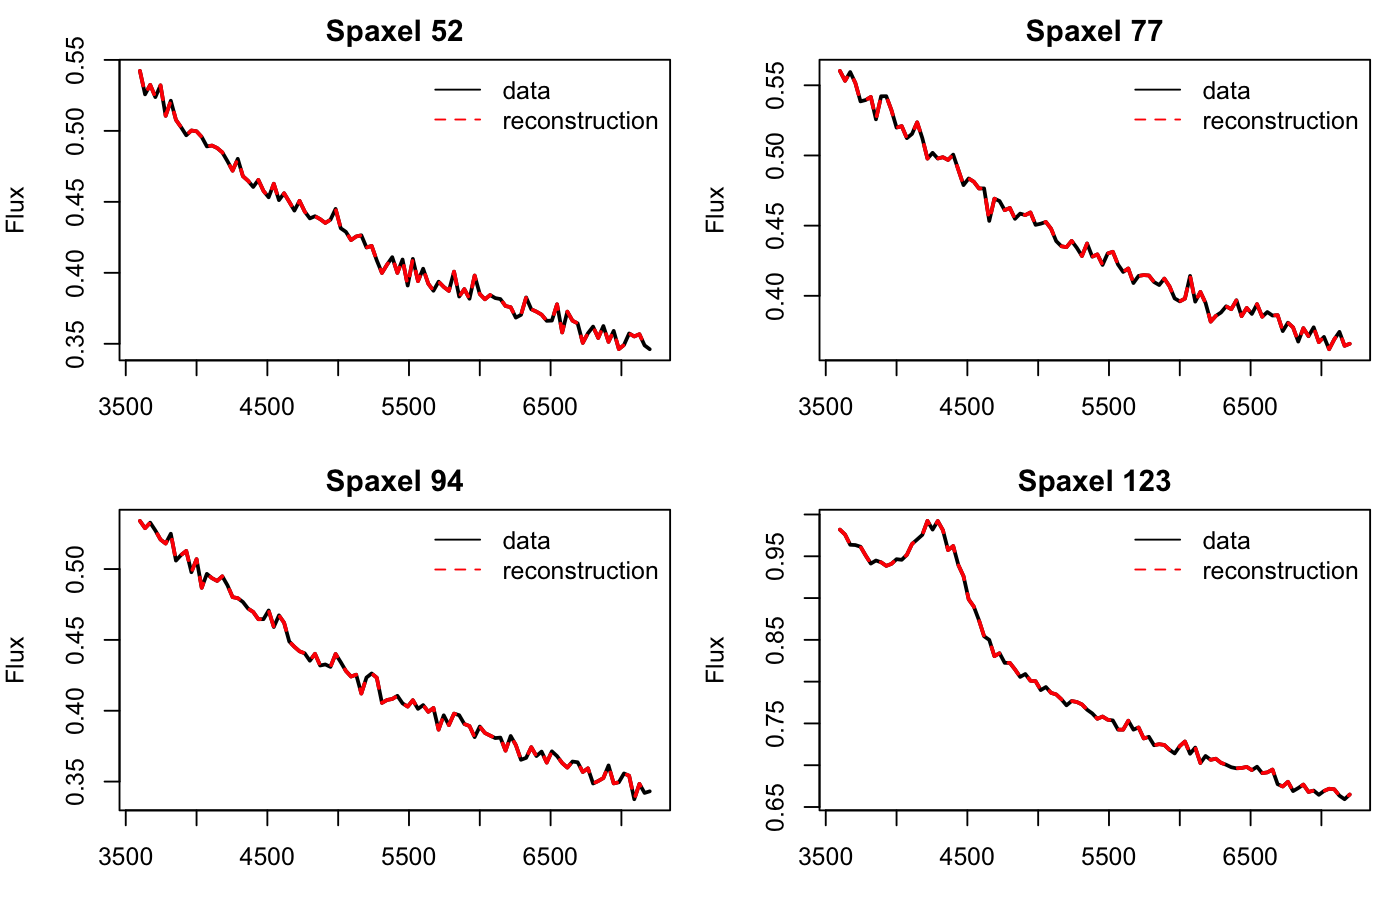
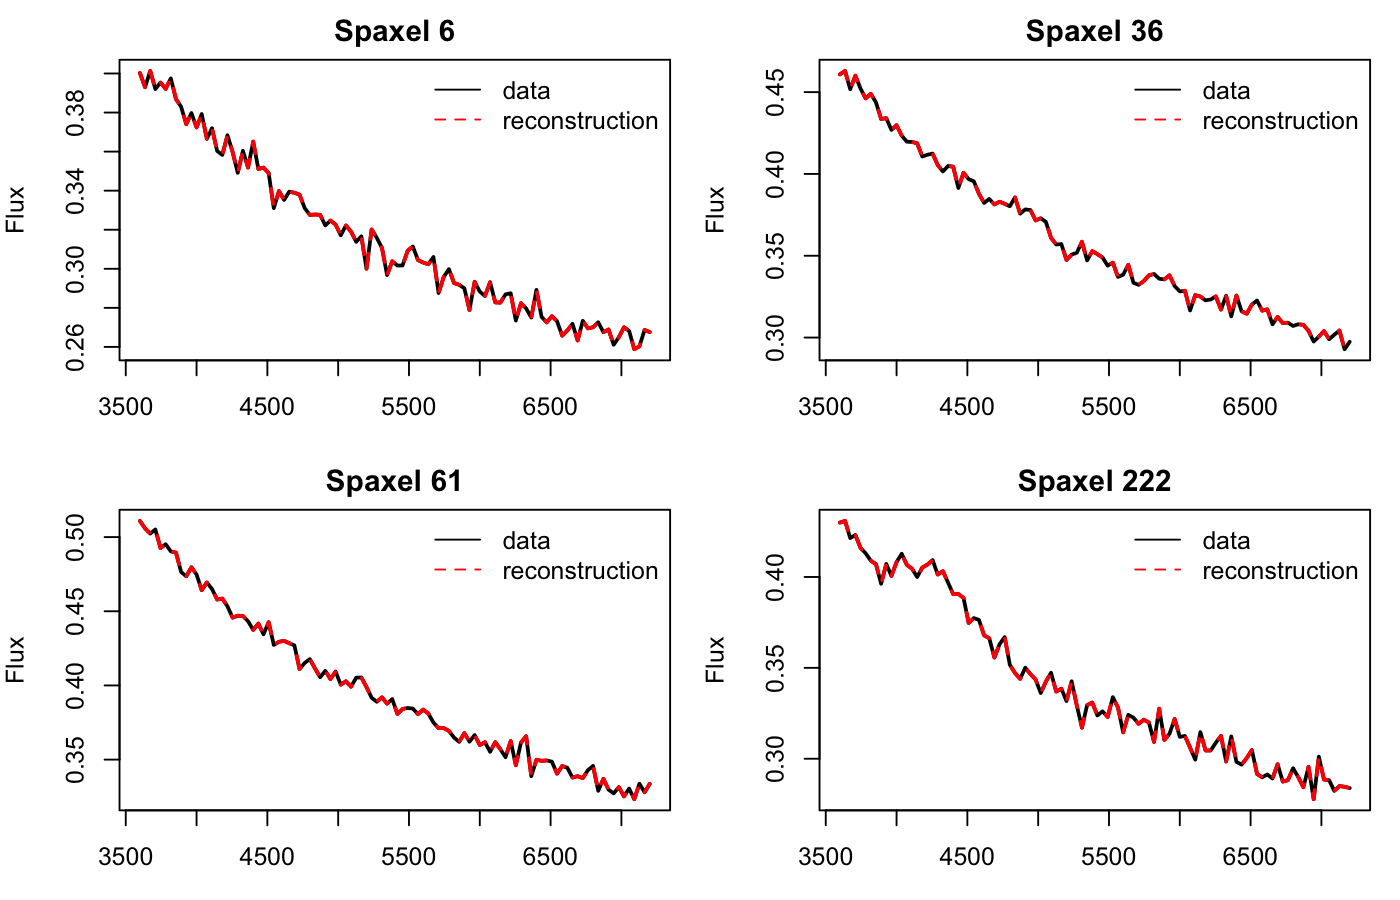
new doc

diff --git a/site/_site/validation.html b/site/_site/validation.html
@@ -171,6 +171,7 @@ pre > code.sourceCode > span > a:first-child::before { text-decoration: underlin
   <li><a href="#controlled-benchmark" id="toc-controlled-benchmark" class="nav-link active" data-scroll-target="#controlled-benchmark">Controlled benchmark</a></li>
   <li><a href="#what-is-checked" id="toc-what-is-checked" class="nav-link" data-scroll-target="#what-is-checked">What is checked</a></li>
   <li><a href="#why-compare-to-nmf" id="toc-why-compare-to-nmf" class="nav-link" data-scroll-target="#why-compare-to-nmf">Why compare to <code>NMF</code></a></li>
+  <li><a href="#coelho-basis-benchmark" id="toc-coelho-basis-benchmark" class="nav-link" data-scroll-target="#coelho-basis-benchmark">Coelho basis benchmark</a></li>
   <li><a href="#running-the-validation-locally" id="toc-running-the-validation-locally" class="nav-link" data-scroll-target="#running-the-validation-locally">Running the validation locally</a></li>
   <li><a href="#interpreting-the-diagnostics" id="toc-interpreting-the-diagnostics" class="nav-link" data-scroll-target="#interpreting-the-diagnostics">Interpreting the diagnostics</a></li>
   </ul>
@@ -198,6 +199,14 @@ pre > code.sourceCode > span > a:first-child::before { text-decoration: underlin
 </header>
 
 
+<div class="cell">
+<div class="code-copy-outer-scaffold"><div class="sourceCode cell-code" id="cb1"><pre class="sourceCode r code-with-copy"><code class="sourceCode r"><span id="cb1-1"><a href="#cb1-1" aria-hidden="true" tabindex="-1"></a>coelho_summary_path <span class="ot">&lt;-</span> <span class="st">"data/coelho-basis-benchmark-summary.csv"</span></span>
+<span id="cb1-2"><a href="#cb1-2" aria-hidden="true" tabindex="-1"></a>coelho_bench <span class="ot">&lt;-</span> <span class="cf">if</span> (<span class="fu">file.exists</span>(coelho_summary_path)) {</span>
+<span id="cb1-3"><a href="#cb1-3" aria-hidden="true" tabindex="-1"></a>  <span class="fu">read.csv</span>(coelho_summary_path, <span class="at">stringsAsFactors =</span> <span class="cn">FALSE</span>)</span>
+<span id="cb1-4"><a href="#cb1-4" aria-hidden="true" tabindex="-1"></a>} <span class="cf">else</span> {</span>
+<span id="cb1-5"><a href="#cb1-5" aria-hidden="true" tabindex="-1"></a>  <span class="cn">NULL</span></span>
+<span id="cb1-6"><a href="#cb1-6" aria-hidden="true" tabindex="-1"></a>}</span></code></pre></div><button title="Copy to Clipboard" class="code-copy-button"><i class="bi"></i></button></div>
+</div>
 <section id="controlled-benchmark" class="level2">
 <h2 class="anchored" data-anchor-id="controlled-benchmark">Controlled benchmark</h2>
 <p><code>SpectralUnmix</code> is validated with a controlled low-rank benchmark that mirrors the basic NMF problem before any survey-specific complications are introduced. The synthetic data are exactly non-negative and exactly low-rank, so the test suite isolates the core factorization behavior of <code>spectral_unmix()</code>.</p>
@@ -219,9 +228,72 @@ pre > code.sourceCode > span > a:first-child::before { text-decoration: underlin
 <h2 class="anchored" data-anchor-id="why-compare-to-nmf">Why compare to <code>NMF</code></h2>
 <p>The <code>NMF</code> package is a natural baseline for the unregularized matrix factorization problem. Matching that reference behavior on a simple benchmark gives us confidence that the torch-based optimizer in <code>SpectralUnmix</code> is recovering the expected NMF structure before smoothness regularization or IFU data handling are layered on top.</p>
 </section>
+<section id="coelho-basis-benchmark" class="level2">
+<h2 class="anchored" data-anchor-id="coelho-basis-benchmark">Coelho basis benchmark</h2>
+<p>The figure below uses the bundled Coelho demo spectra as the true basis, then generates a synthetic mixture matrix from them. That gives us a realistic but controlled comparison in which the target basis is known.</p>
+<div class="cell">
+<div class="code-copy-outer-scaffold"><div class="sourceCode cell-code" id="cb2"><pre class="sourceCode r code-with-copy"><code class="sourceCode r"><span id="cb2-1"><a href="#cb2-1" aria-hidden="true" tabindex="-1"></a><span class="cf">if</span> (<span class="fu">file.exists</span>(<span class="st">"images/coelho-basis-benchmark.png"</span>)) {</span>
+<span id="cb2-2"><a href="#cb2-2" aria-hidden="true" tabindex="-1"></a>  knitr<span class="sc">::</span><span class="fu">include_graphics</span>(<span class="st">"images/coelho-basis-benchmark.png"</span>)</span>
+<span id="cb2-3"><a href="#cb2-3" aria-hidden="true" tabindex="-1"></a>} <span class="cf">else</span> {</span>
+<span id="cb2-4"><a href="#cb2-4" aria-hidden="true" tabindex="-1"></a>  <span class="fu">cat</span>(<span class="st">"Coelho benchmark figure not found in `site/images/coelho-basis-benchmark.png`.</span><span class="sc">\n</span><span class="st">"</span>)</span>
+<span id="cb2-5"><a href="#cb2-5" aria-hidden="true" tabindex="-1"></a>}</span></code></pre></div><button title="Copy to Clipboard" class="code-copy-button"><i class="bi"></i></button></div>
+<div class="cell-output-display">
+<div>
+<figure class="figure">
+<p><img src="images/coelho-basis-benchmark.png" class="img-fluid figure-img" width="800"></p>
+</figure>
+</div>
+</div>
+</div>
+<div class="cell">
+<div class="code-copy-outer-scaffold"><div class="sourceCode cell-code" id="cb3"><pre class="sourceCode r code-with-copy"><code class="sourceCode r"><span id="cb3-1"><a href="#cb3-1" aria-hidden="true" tabindex="-1"></a><span class="cf">if</span> (<span class="sc">!</span><span class="fu">is.null</span>(coelho_bench)) {</span>
+<span id="cb3-2"><a href="#cb3-2" aria-hidden="true" tabindex="-1"></a>  coelho_bench<span class="sc">$</span>reconstruction_mse <span class="ot">&lt;-</span> <span class="fu">signif</span>(coelho_bench<span class="sc">$</span>reconstruction_mse, <span class="dv">4</span>)</span>
+<span id="cb3-3"><a href="#cb3-3" aria-hidden="true" tabindex="-1"></a>  coelho_bench<span class="sc">$</span>basis_mse <span class="ot">&lt;-</span> <span class="fu">signif</span>(coelho_bench<span class="sc">$</span>basis_mse, <span class="dv">4</span>)</span>
+<span id="cb3-4"><a href="#cb3-4" aria-hidden="true" tabindex="-1"></a>  knitr<span class="sc">::</span><span class="fu">kable</span>(coelho_bench, <span class="at">caption =</span> <span class="st">"Coelho basis benchmark summary."</span>)</span>
+<span id="cb3-5"><a href="#cb3-5" aria-hidden="true" tabindex="-1"></a>} <span class="cf">else</span> {</span>
+<span id="cb3-6"><a href="#cb3-6" aria-hidden="true" tabindex="-1"></a>  <span class="fu">cat</span>(<span class="st">"Coelho benchmark summary CSV not found.</span><span class="sc">\n</span><span class="st">"</span>)</span>
+<span id="cb3-7"><a href="#cb3-7" aria-hidden="true" tabindex="-1"></a>}</span></code></pre></div><button title="Copy to Clipboard" class="code-copy-button"><i class="bi"></i></button></div>
+<div class="cell-output-display">
+<table class="caption-top table table-sm table-striped small">
+<caption>Coelho basis benchmark summary.</caption>
+<thead>
+<tr class="header">
+<th style="text-align: left;">method</th>
+<th style="text-align: right;">reconstruction_mse</th>
+<th style="text-align: right;">basis_mse</th>
+<th style="text-align: right;">iterations</th>
+<th style="text-align: left;">converged</th>
+</tr>
+</thead>
+<tbody>
+<tr class="odd">
+<td style="text-align: left;">SpectralUnmix</td>
+<td style="text-align: right;">1e-07</td>
+<td style="text-align: right;">0.001256</td>
+<td style="text-align: right;">2000</td>
+<td style="text-align: left;">FALSE</td>
+</tr>
+<tr class="even">
+<td style="text-align: left;">NMF</td>
+<td style="text-align: right;">1e-07</td>
+<td style="text-align: right;">0.001300</td>
+<td style="text-align: right;">NA</td>
+<td style="text-align: left;">NA</td>
+</tr>
+</tbody>
+</table>
+</div>
+</div>
+<p>On this benchmark, the normalized basis curves should overlap closely after component matching. They are not expected to be pixel-perfect:</p>
+<ul>
+<li>NMF solutions are only identifiable up to permutation and scaling.</li>
+<li><code>SpectralUnmix</code> and <code>NMF::nmf()</code> use different optimizers.</li>
+<li>once smoothness regularization is turned on, the two objectives are no longer the same.</li>
+</ul>
+</section>
 <section id="running-the-validation-locally" class="level2">
 <h2 class="anchored" data-anchor-id="running-the-validation-locally">Running the validation locally</h2>
-<div class="code-copy-outer-scaffold"><div class="sourceCode" id="cb1"><pre class="sourceCode r code-with-copy"><code class="sourceCode r"><span id="cb1-1"><a href="#cb1-1" aria-hidden="true" tabindex="-1"></a>devtools<span class="sc">::</span><span class="fu">test</span>(<span class="at">filter =</span> <span class="st">"vanilla-nmf"</span>)</span></code></pre></div><button title="Copy to Clipboard" class="code-copy-button"><i class="bi"></i></button></div>
+<div class="code-copy-outer-scaffold"><div class="sourceCode" id="cb4"><pre class="sourceCode r code-with-copy"><code class="sourceCode r"><span id="cb4-1"><a href="#cb4-1" aria-hidden="true" tabindex="-1"></a>devtools<span class="sc">::</span><span class="fu">test</span>(<span class="at">filter =</span> <span class="st">"vanilla-nmf"</span>)</span></code></pre></div><button title="Copy to Clipboard" class="code-copy-button"><i class="bi"></i></button></div>
 <p>The benchmark tests require both <code>torch</code> and <code>NMF</code>. If either package is not available in the local R environment, the corresponding tests are skipped.</p>
 </section>
 <section id="interpreting-the-diagnostics" class="level2">